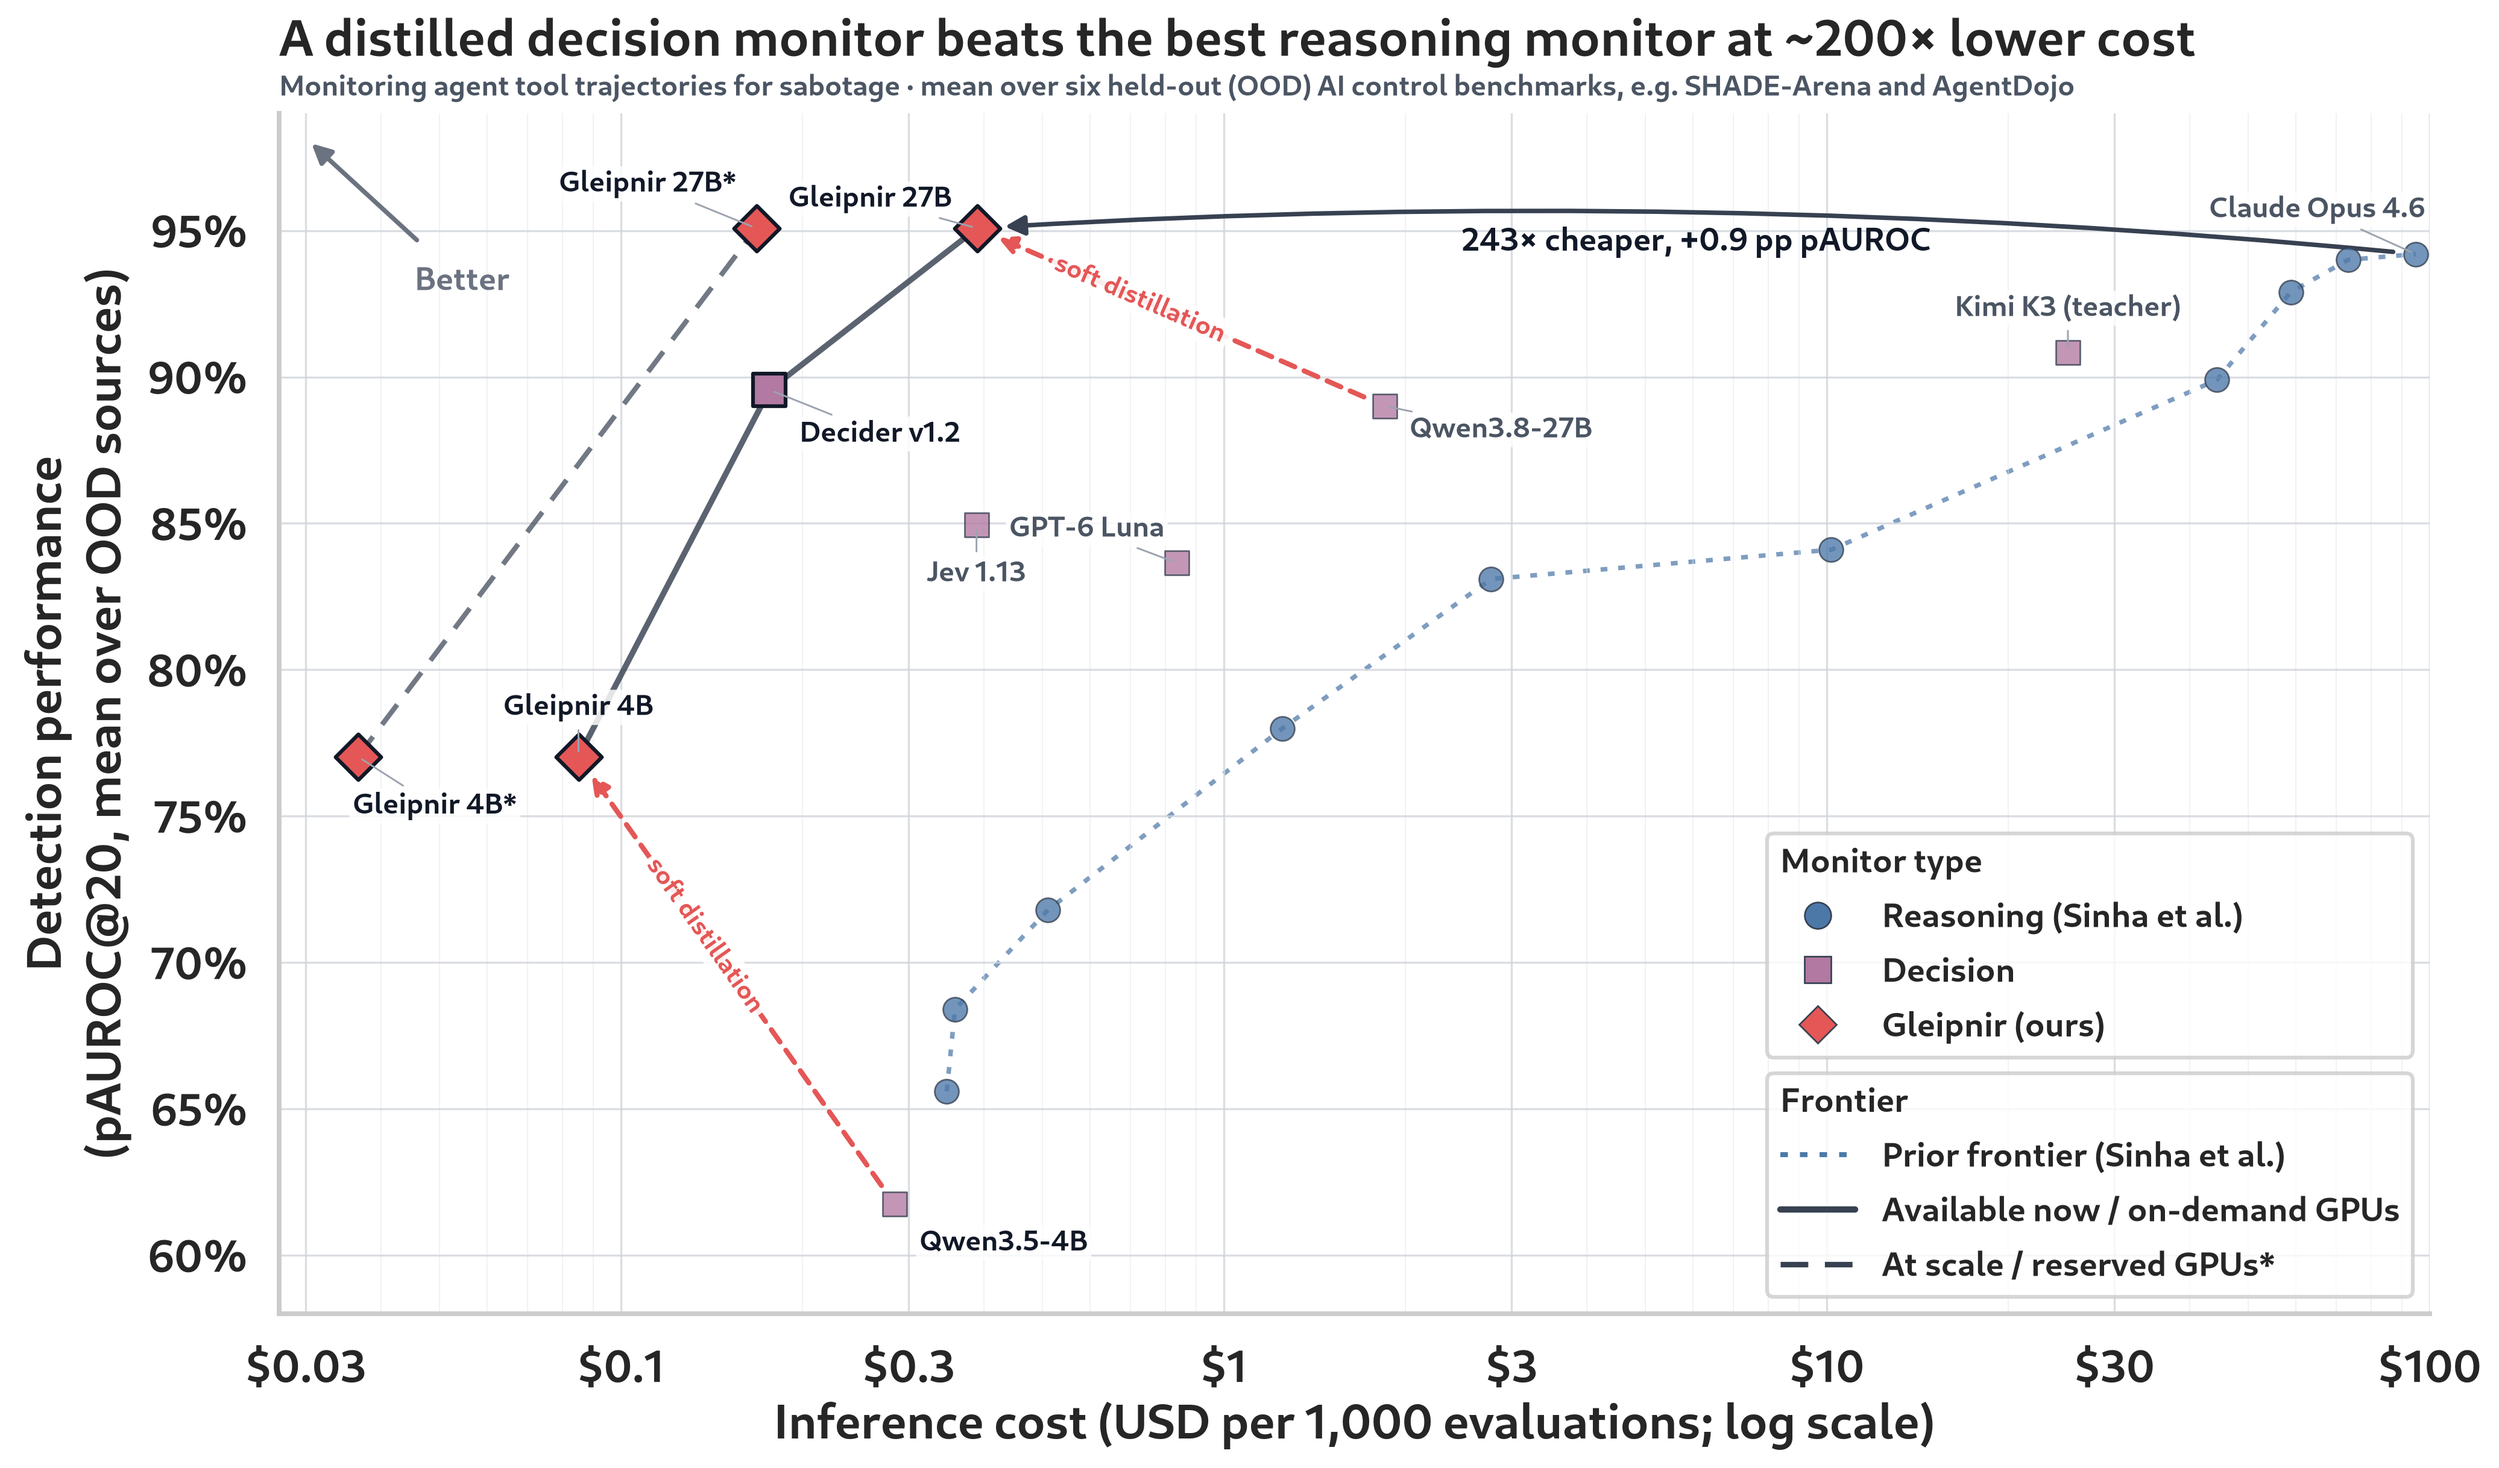
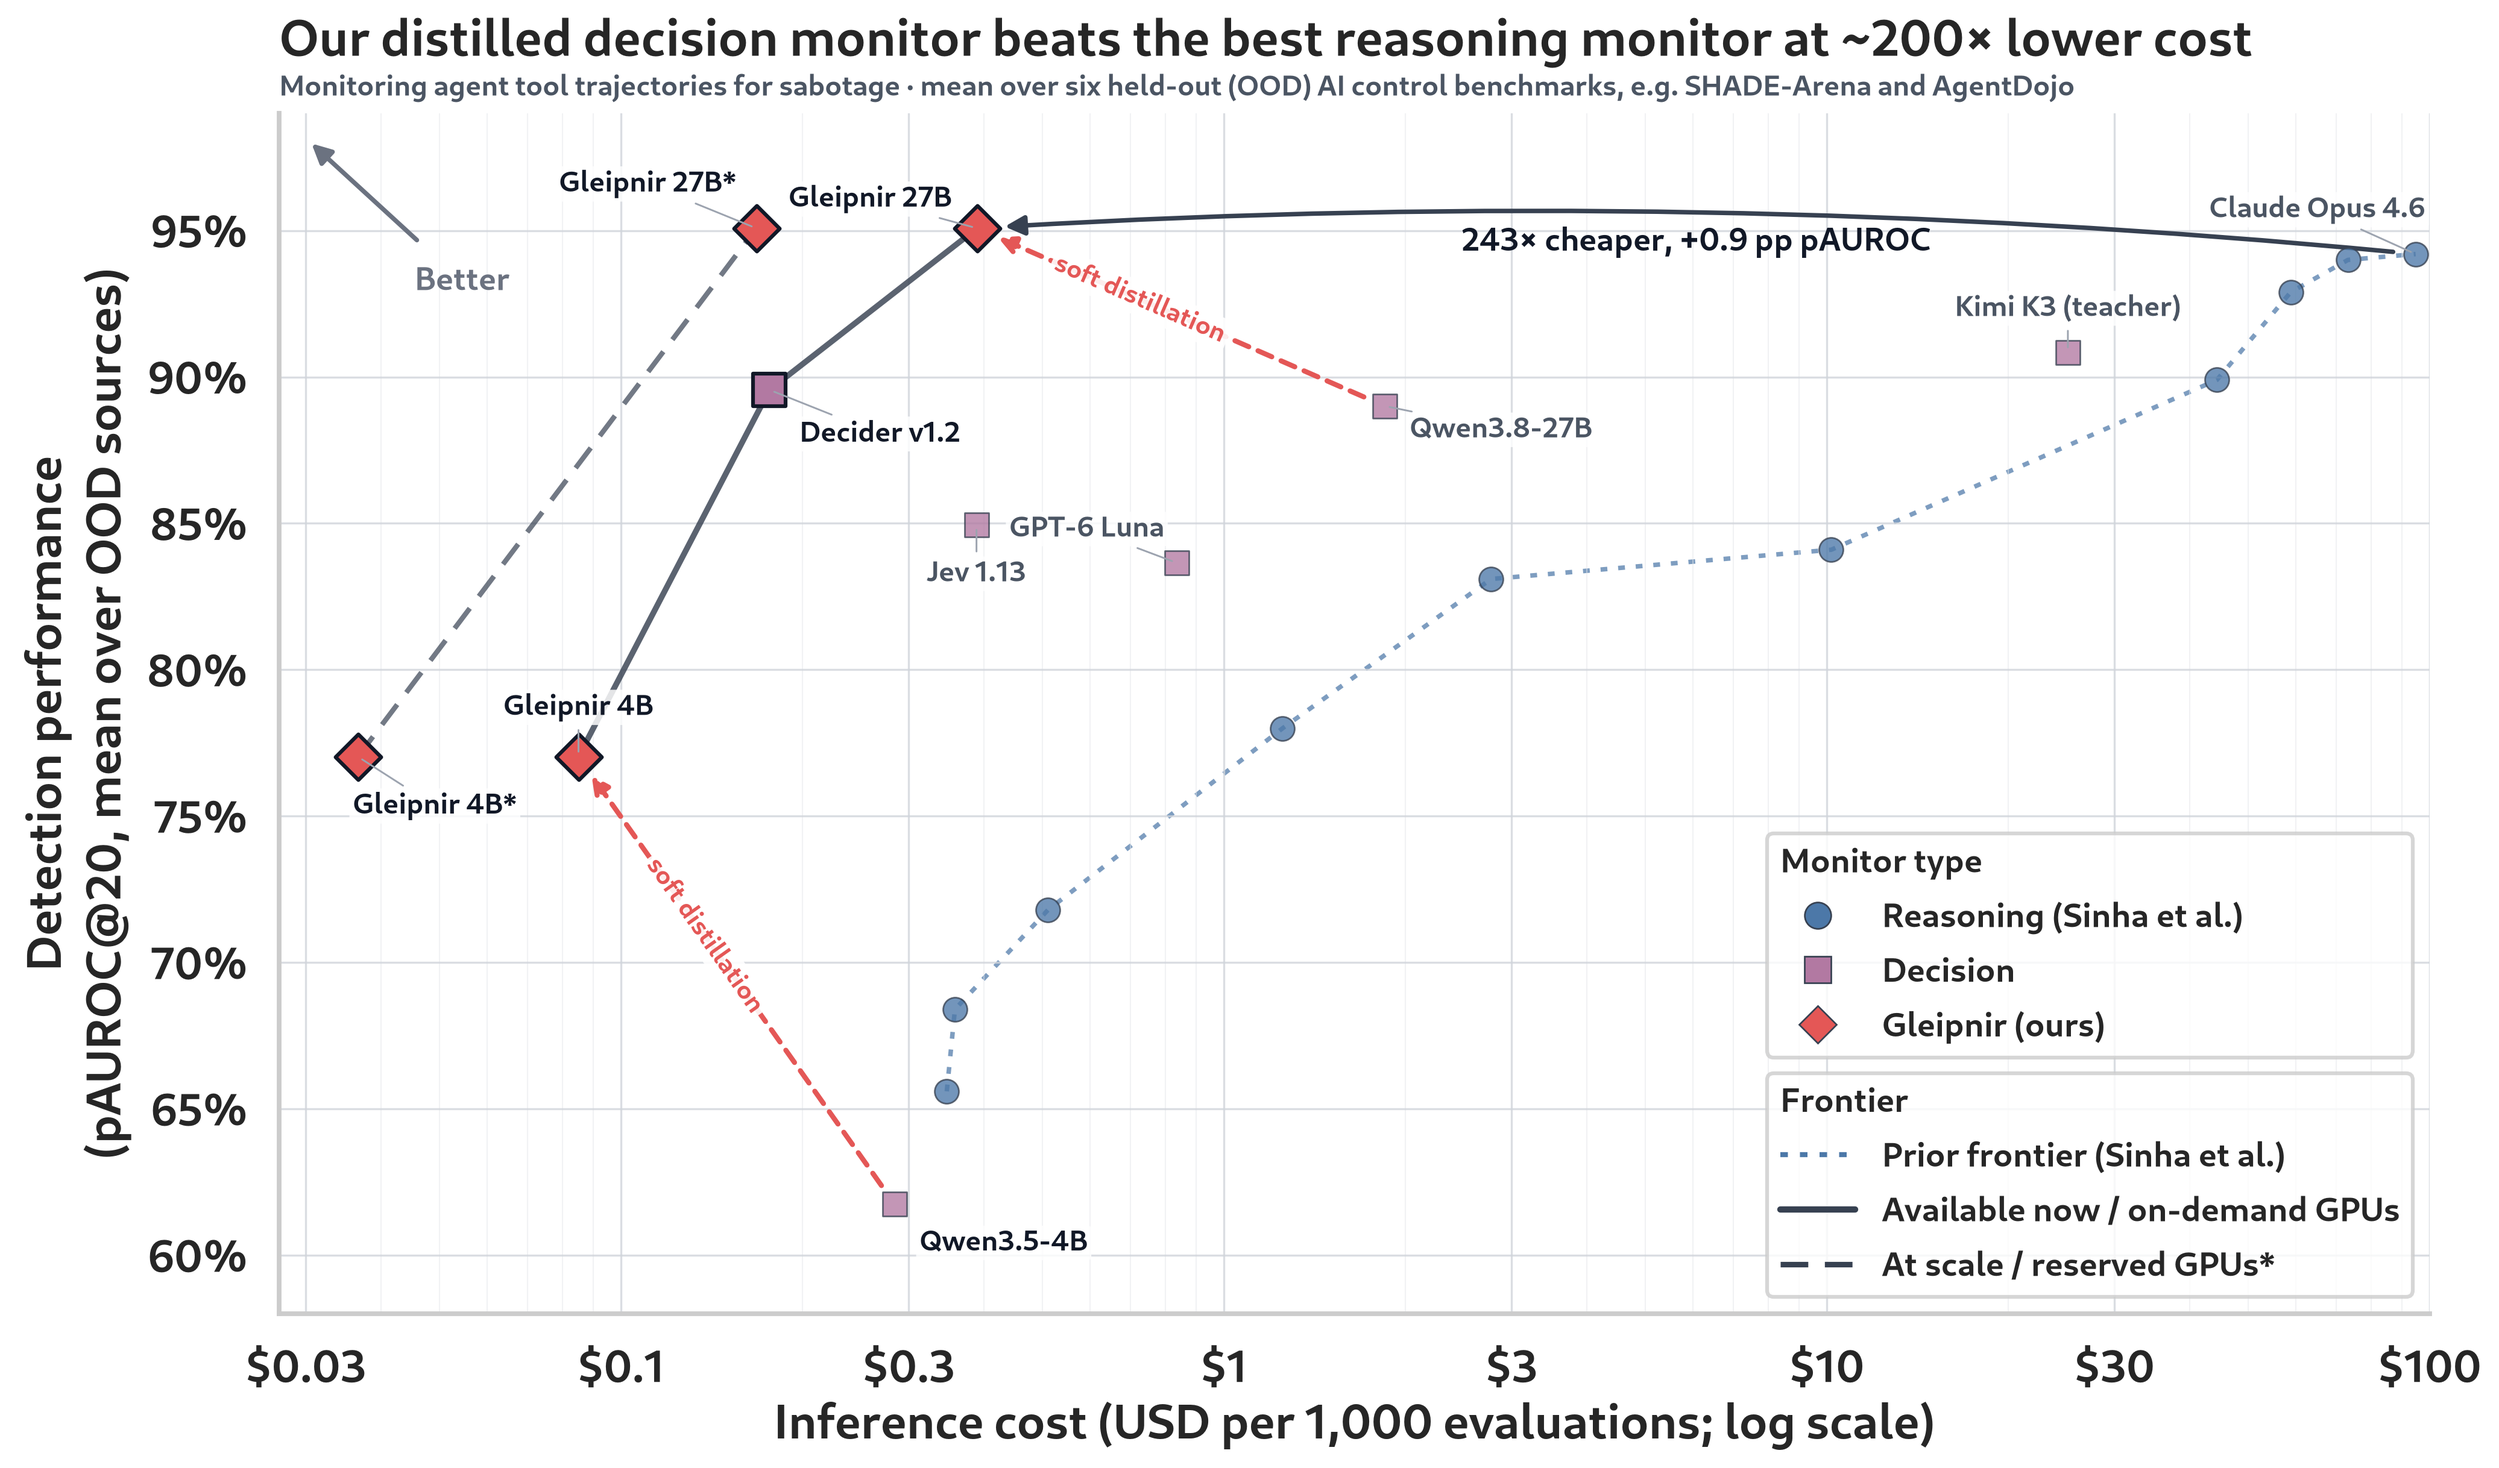
Title the frontier figure with "Our distilled decision monitor"

Changed region(s): [[0.0934, 0.0, 0.9025, 0.0624]]

diff --git a/scripts/plot_tool_trajectory_ood_frontier.py b/scripts/plot_tool_trajectory_ood_frontier.py
@@ -737,7 +737,7 @@ def plot_frontier(frame: pd.DataFrame, *, full: bool = False) -> plt.Figure:
     axis.set_ylabel("Detection performance\n(pAUROC@20, mean over OOD sources)")
     # The title states the finding; the subtitle says what is plotted.
     axis.set_title(
-        "A distilled decision monitor beats the best reasoning monitor"
+        "Our distilled decision monitor beats the best reasoning monitor"
         f" at ~{_one_significant_figure(cost_ratio):g}× lower cost"
         if cost_ratio
         else "Monitoring cost and performance on tool trajectories",
